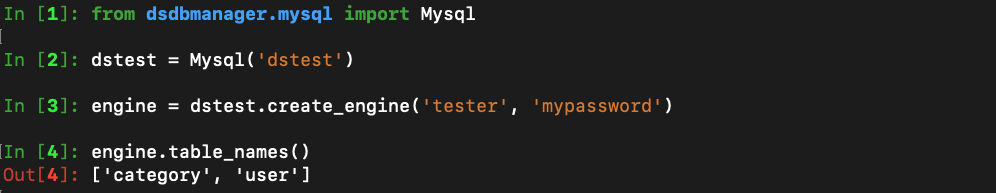
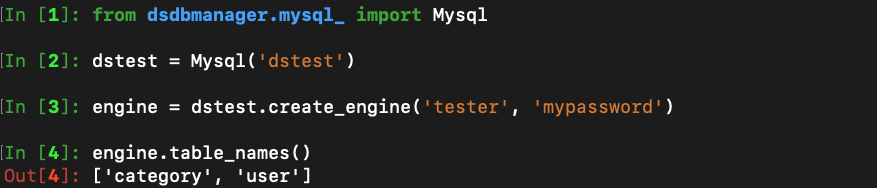
changed the name of the flavor modules to be different from the shortcut functions

diff --git a/dsdbmanager/dbobject.py b/dsdbmanager/dbobject.py
@@ -10,10 +10,10 @@ import sqlalchemy as sa
 import sqlalchemy.exc as exc
 import sqlalchemy.sql.dml as dml
 
-from .mssql import Mssql
-from .mysql import Mysql
-from .oracle import Oracle
-from .teradata import Teradata
+from .mssql_ import Mssql
+from .mysql_ import Mysql
+from .oracle_ import Oracle
+from .teradata_ import Teradata
 from sqlalchemy.engine import reflection
 from .configuring import ConfigFilesManager
 from .utils import d_frame, inspect_table, filter_maker

diff --git a/README.md b/README.md
@@ -48,10 +48,10 @@ Once a database is added, it is easy to connect to it using one of the following
 to establish a connection. This approach means that the user only needs to provide the username and password to create the engines.
     
 <ul>
-<li>oracle</li>
-<li>mssql</li>
-<li>mysql</li>
-<li>teradata</li>
+<li>oracle_</li>
+<li>mssql_</li>
+<li>mysql_</li>
+<li>teradata_</li>
 </ul>
 
 ![mysql connect](https://github.com/jojoduquartier/dsdbmanager/blob/master/source/imgs/manualconnection.png)
@@ -119,7 +119,7 @@ The context manager approach is way cleaner anyways.
 ```python
 from dsdbmanager import mysql
 
-with mysql().dstest(connect_only=True, schema='None') as dbobject:
+with mysql().dstest(connect_only=True, schema=None) as dbobject:
     # anything with the engine goes here
     pass
 ```
